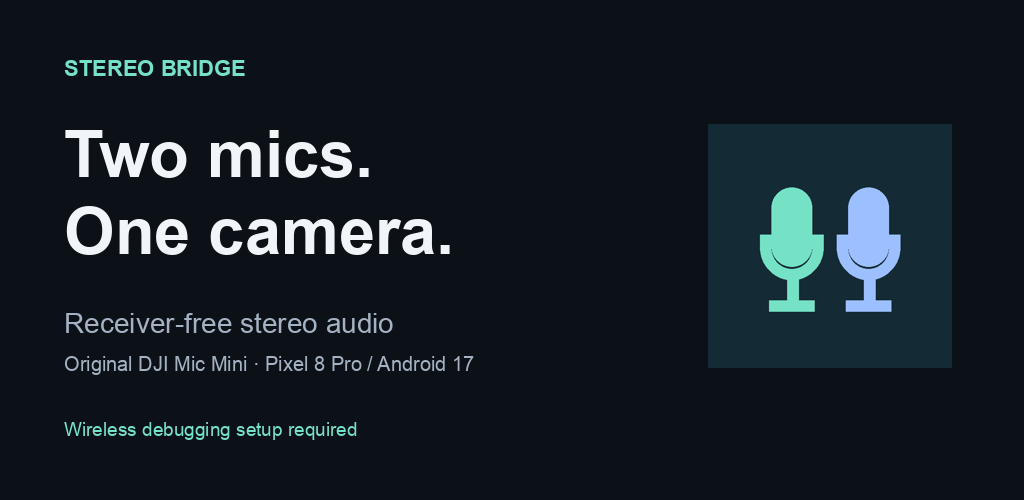
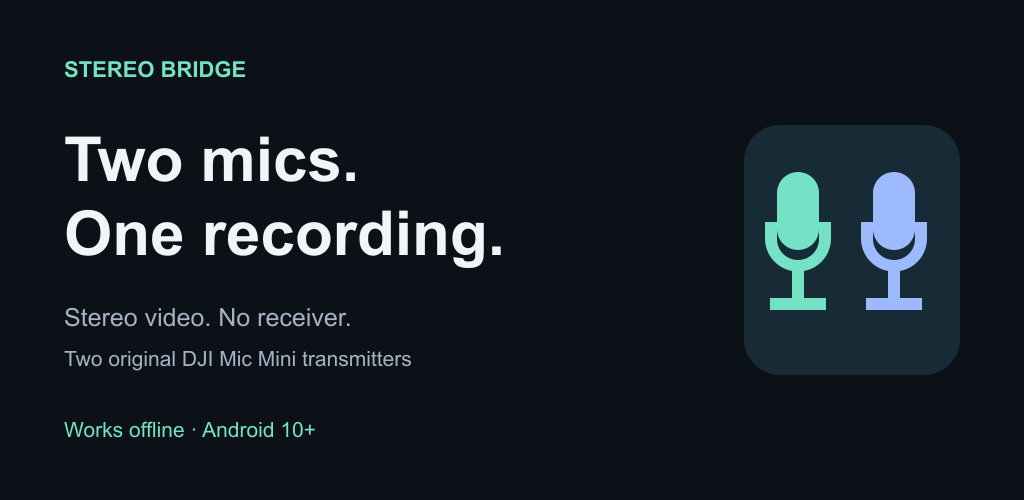
Correct native camera preview and finalize reviewed code 7 candidate

diff --git a/docs/site/privacy.html b/docs/site/privacy.html
@@ -1,1 +1,1 @@
-<!doctype html><html lang="en"><head><meta charset="utf-8"><meta name="viewport" content="width=device-width, initial-scale=1"><link rel="stylesheet" href="style.css"><title>Stereo Bridge privacy</title></head><body><main><article><h1>Privacy — offline recorder</h1><p>This policy describes Stereo Bridge 0.2.0-offline-rc3 (version code 6). For the previous stock-camera bridge, see the <a href="privacy-0.1.html">version 0.1 privacy policy</a>.</p><p>Stereo Bridge records camera video and audio from the two selected original DJI Mic Mini Bluetooth transmitters only after you tap Record. Capture continues when the screen sleeps or another app is open. Tap Stop in the app or recording notification to finish; cancel startup to cancel. A capture connection failure stops capture. Recording does not start automatically after reboot. If notifications are disabled, return to the app to Stop; enable them in Notification settings for a visible Stop action.</p><p>Audio is decoded and mixed on your phone. Videos are written to an app-owned pending item in Movies / Stereo Bridge and published when finalized. A finalized take whose publication fails is kept for a save retry. Completed videos remain if you uninstall the app. Unfinished pending captures and private recovery metadata may be removed during recovery; clearing app storage or uninstalling deletes private metadata. Delete completed videos using your gallery or file manager.</p><p>The app has no Internet permission, analytics, advertising, cloud upload or account requirement. It does not use wireless debugging, a local ADB identity, root or Shizuku.</p><p>The app saves selected microphone addresses and names, gain/mute/channel settings, the URI of the last saved video and pending-video recovery metadata. Application backup is disabled. Clear application storage or uninstall to delete these settings. Bluetooth pairings are managed separately by Android Settings.</p><p>Camera permission enables video. Nearby devices permission on Android 12 and later permits connections to paired Bluetooth transmitters; Android 10 and 11 use ordinary Bluetooth access. The app does not request phone Microphone, location or broad storage permission. The foreground service uses camera and connected-device access for active camera capture and Bluetooth RFCOMM streams. Notifications are optional and provide recording status and Stop. A wake lock keeps an active capture running when the screen sleeps.</p><p>Publisher: Artomatica. Contact: andrii@shylenko.com. Effective date: 14 October 2026.</p><p><a href="index.html">Stereo Bridge</a></p></article></main></body></html>
+<!doctype html><html lang="en"><head><meta charset="utf-8"><meta name="viewport" content="width=device-width, initial-scale=1"><link rel="stylesheet" href="style.css"><title>Stereo Bridge privacy</title></head><body><main><article><h1>Privacy — offline recorder</h1><p>This policy describes Stereo Bridge 0.2.0-offline-rc4 (version code 7). For the previous stock-camera bridge, see the <a href="privacy-0.1.html">version 0.1 privacy policy</a>.</p><p>Stereo Bridge records camera video and audio from the two selected original DJI Mic Mini Bluetooth transmitters only after you tap Record. Capture continues when the screen sleeps or another app is open. Tap Stop in the app or recording notification to finish; cancel startup to cancel. A capture connection failure stops capture. Recording does not start automatically after reboot. If notifications are disabled, return to the app to Stop; enable them in Notification settings for a visible Stop action.</p><p>Audio is decoded and mixed on your phone. Videos are written to an app-owned pending item in Movies / Stereo Bridge and published when finalized. A finalized take whose publication fails is kept for a save retry. Completed videos remain if you uninstall the app. Unfinished pending captures and private recovery metadata may be removed during recovery; clearing app storage or uninstalling deletes private metadata. Delete completed videos using your gallery or file manager.</p><p>The app has no Internet permission, analytics, advertising, cloud upload or account requirement. It does not use wireless debugging, a local ADB identity, root or Shizuku.</p><p>The app saves selected microphone addresses and names, gain/mute/channel settings, the URI of the last saved video and pending-video recovery metadata. Application backup is disabled. Clear application storage or uninstall to delete these settings. Bluetooth pairings are managed separately by Android Settings.</p><p>Camera permission enables video. Nearby devices permission on Android 12 and later permits connections to paired Bluetooth transmitters; Android 10 and 11 use ordinary Bluetooth access. The app does not request phone Microphone, location or broad storage permission. The foreground service uses camera and connected-device access for active camera capture and Bluetooth RFCOMM streams. Notifications are optional and provide recording status and Stop. A wake lock keeps an active capture running when the screen sleeps.</p><p>Publisher: Artomatica. Contact: andrii@shylenko.com. Effective date: 14 October 2026.</p><p><a href="index.html">Stereo Bridge</a></p></article></main></body></html>

diff --git a/app/src/main/java/app/stereobridge/MainActivity.java b/app/src/main/java/app/stereobridge/MainActivity.java
@@ -18,6 +18,7 @@ public final class MainActivity extends Activity {
   private TextureView preview;
   private int transformedWidth=-1,transformedHeight=-1,bufferWidth=-1,bufferHeight=-1,bufferRotation=-1;
   private boolean transformedFront;
+  private int transformedDisplay = -1;
   private SurfaceTexture texture;
   private OfflineRecorderService.LocalBinder recorder, previewOwner;
   private boolean bound, resumed, pendingRecord, expanded, permissionRequestInFlight;
@@ -187,21 +188,12 @@ public final class MainActivity extends Activity {
     if (recorder != null) recorder.setDisplayRotation(displayDegrees);
     int[] info = recorder == null ? new int[] {1920, 1080, 90} : recorder.previewInfo();
     boolean front = info.length > 3 && info[3] == 1;
-    if (info.length > 4) info[2] = CameraGeometry.rotation(info[4], displayDegrees, front);
-    if(width==transformedWidth&&height==transformedHeight&&info[0]==bufferWidth&&info[1]==bufferHeight&&info[2]==bufferRotation&&front==transformedFront)return;
-    transformedFront=front;
-    transformedWidth=width;transformedHeight=height;bufferWidth=info[0];bufferHeight=info[1];bufferRotation=info[2];
-    float sw = info[0], sh = info[1];
-    double angle = Math.toRadians(info[2]);
-    float rotatedWidth = info[2] % 180 == 0 ? sw : sh, rotatedHeight = info[2] % 180 == 0 ? sh : sw;
-    float scale = Math.max(width / rotatedWidth, height / rotatedHeight);
-    float[] source = {0, 0, width, 0, width, height, 0, height}, target = new float[8];
-    float[] corners = {-sw / 2, -sh / 2, sw / 2, -sh / 2, sw / 2, sh / 2, -sw / 2, sh / 2};
-    for (int n = 0; n < 4; n++) {
-      float x = corners[n * 2], y = corners[n * 2 + 1];
-      target[n * 2] = width / 2f + (front ? -1 : 1) * scale * (float) (x * Math.cos(angle) - y * Math.sin(angle));
-      target[n * 2 + 1] = height / 2f + scale * (float) (x * Math.sin(angle) + y * Math.cos(angle));
-    }
+    int sensor = info.length > 4 ? info[4] : 90;
+    if(width==transformedWidth&&height==transformedHeight&&info[0]==bufferWidth&&info[1]==bufferHeight&&sensor==bufferRotation&&displayDegrees==transformedDisplay&&front==transformedFront)return;
+    transformedFront=front;transformedDisplay=displayDegrees;
+    transformedWidth=width;transformedHeight=height;bufferWidth=info[0];bufferHeight=info[1];bufferRotation=sensor;
+    float[] source = {0,0,width,0,width,height,0,height};
+    float[] target = CameraGeometry.previewCorners(width,height,info[0],info[1],sensor,displayDegrees);
     Matrix matrix = new Matrix();
     matrix.setPolyToPoly(source, 0, target, 0, 4);
     preview.setTransform(matrix);

diff --git a/app/src/main/java/app/stereobridge/CameraGeometry.java b/app/src/main/java/app/stereobridge/CameraGeometry.java
@@ -4,4 +4,20 @@ public final class CameraGeometry {
  private CameraGeometry() {}
  public static int rotation(int sensor, int display, boolean front) { return Math.floorMod(sensor + (front ? display : -display),360); }
  public static boolean within1080(int width,int height) { return width>0 && height>0 && Math.max(width,height)<=1920 && Math.min(width,height)<=1080; }
+ public static float[] previewCorners(int viewWidth,int viewHeight,int bufferWidth,int bufferHeight,int sensor,int display) {
+   // TextureView's producer transform already applies sensor orientation and front mirroring.
+   float sw = sensor % 180 == 0 ? bufferWidth : bufferHeight;
+   float sh = sensor % 180 == 0 ? bufferHeight : bufferWidth;
+   float rw = display % 180 == 0 ? sw : sh, rh = display % 180 == 0 ? sh : sw;
+   float scale = Math.max(viewWidth / rw,viewHeight / rh);
+   double angle = Math.toRadians(-display);
+   float[] corners = {-sw/2,-sh/2,sw/2,-sh/2,sw/2,sh/2,-sw/2,sh/2};
+   float[] target = new float[8];
+   for (int n=0;n<4;n++) {
+     float x=corners[n*2],y=corners[n*2+1];
+     target[n*2]=viewWidth/2f+scale*(float)(x*Math.cos(angle)-y*Math.sin(angle));
+     target[n*2+1]=viewHeight/2f+scale*(float)(x*Math.sin(angle)+y*Math.cos(angle));
+   }
+   return target;
+ }
 }

diff --git a/app/src/test/java/app/stereobridge/CameraPreviewGeometryTest.java b/app/src/test/java/app/stereobridge/CameraPreviewGeometryTest.java
@@ -1,0 +1,17 @@
+package app.stereobridge;
+import org.junit.Test;
+import static org.junit.Assert.*;
+public class CameraPreviewGeometryTest {
+ @Test public void textureAlreadyHasSensorOrientationInPortrait() {
+  assertArrayEquals(new float[]{0,0,1080,0,1080,1920,0,1920},CameraGeometry.previewCorners(1080,1920,1920,1080,90,0),.01f);
+ }
+ @Test public void landscapeCompensatesOnlyDisplayRotation() {
+  assertArrayEquals(new float[]{0,1080,0,0,1920,0,1920,1080},CameraGeometry.previewCorners(1920,1080,1920,1080,90,90),.01f);
+ }
+ @Test public void squareViewCropsWithoutChangingOrientedAspectRatio() {
+  float[] p=CameraGeometry.previewCorners(1000,1000,1920,1080,90,0);
+  assertEquals(1000,p[2]-p[0],.01f);
+  assertEquals(1000*1920f/1080,p[5]-p[3],.01f);
+  assertEquals(500,(p[1]+p[5])/2,.01f);
+ }
+}

diff --git a/docs/offline-verification.md b/docs/offline-verification.md
@@ -6,7 +6,7 @@
 
 First use requires pairing both original DJI Mic Mini transmitters in Android Settings, then granting Camera and Nearby devices on Android 12+. Android 10/11 use the normal legacy Bluetooth permission. Notifications are optional. No Wi-Fi, receiver, root, Shizuku or debugging setup is required to record. Settings survive reboot; recording never starts automatically.
 
-## Current candidate: 0.2.0-offline-rc3 (code 6)
+## Current candidate: 0.2.0-offline-rc4 (code 7)
 
 - Android 10/API 29 minimum, target API 36. Native libraries: armeabi-v7a, arm64-v8a and x86_64.
 - Camera and paired-device Bluetooth access; optional notifications. No RECORD_AUDIO, Internet, location, device discovery or broad storage permission. Foreground service uses camera and connectedDevice types for Camera2 plus Bluetooth RFCOMM.
@@ -15,7 +15,7 @@ First use requires pairing both original DJI Mic Mini transmitters in Android Se
 - Permission-denial recovery, optional-notification capture, low-storage reserve, disconnect errors and repeated-session cleanup are covered by focused checks.
 - Independent spec and quality reviews found issues in descriptor lifetime, camera fallback, permission prompts and UI recovery; these were addressed. Final review and candidate-specific hardware checks are recorded separately from earlier releases.
 
-## Local package checks (code 5; repeated build for code 6)
+## Local package checks (code 6)
 
 106 unit tests passed with zero failures/errors. Release lint reported zero errors and nine warnings. Debug APK, signed release APK and signed AAB built successfully. APK signature, 16 KiB ZIP alignment and native LOAD alignment passed for all three ABIs. Bundled privacy text exactly matches PRIVACY.md. Final focused independent source review found no critical or important issues.
 
@@ -41,16 +41,24 @@ Code 5 candidate:
 
 Raw owner video/audio and diagnostic logs remain private and are not committed to the public repository.
 
+## Code 6 physical camera check
+
+Two consecutive Pixel debug takes (11.27 and 16.37 seconds) passed full decode, distinct 440/880Hz channel tones, monotonic timestamps and no silent 100ms windows. After charging/powering both transmitters, a real code 6 release take saved and passed full decode: 42.34 seconds, 1080p H.264 and two-channel AAC. An earlier attempt stopped before capture with right-microphone disconnected. The signed release remains installed, the temporary debug app was removed and original Wi-Fi enabled state was restored.
+
 ## Android 10 encoder regression and code 6
 
-The fresh API29 check on code 5 failed during AVC configuration. Android10 ACodec requires an AVC level whenever an explicit profile is set; code 5 supplied only profile. Code 6 supplies both advertised profile and level. Fresh hosted validation is required before this fix is called verified.
+The fresh API29 check on code 5 failed during AVC configuration. Android10 ACodec requires an AVC level whenever an explicit profile is set; code 5 supplied only profile. Code 6 supplies both advertised profile and level. [Fresh API29 hosted validation passed](https://github.com/w1ne/stereo-bridge/actions/runs/38598915925) on source `66498ab`: build/unit/lint, three camera takes including repeat/background/sleep/reboot, and stereo tone/timestamp/silence verification. The profile/level correction is verified on that emulator.
 
 ## Hosted emulator coverage
 
 API 31 x86_64 validation passed on earlier source `2fafcd6`: [Actions run 38435020995](https://github.com/w1ne/stereo-bridge/actions/runs/38435020995). Three synthetic takes covered repeat/background/sleep/reboot with Wi-Fi disabled and passed channel/timestamp/silence checks.
 
-The current workflow targets API 29 to exercise the new minimum version; a fresh candidate run is required after publication. Synthetic testing cannot prove Bluetooth microphone intelligibility, physical clock drift or device-wide compatibility. The local Mac emulator could not boot within available disk space; temporary packages were removed.
+The current API29 workflow passed on source `66498ab`; see the code 6 result above. Synthetic testing cannot prove Bluetooth microphone intelligibility, physical clock drift or device-wide compatibility. The local Mac emulator could not boot within available disk space; temporary packages were removed.
 
 ## Distribution gate
 
-Build, unit-test, lint, signature and alignment results must be attached to the exact candidate. Update the public privacy page, store assets and camera/connectedDevice foreground-service declarations before submitting code 6. Code 5 was uploaded to a production draft but will be replaced by code 6 before submission. Google Play approval is not guaranteed. The prior 0.1 release submission is separate; no new submission or approval is asserted here.
+Build, unit-test, lint, signature and alignment results must be attached to the exact candidate. Update the public privacy page, store assets and camera/connectedDevice foreground-service declarations before submitting code 7. Codes 5 and 6 were uploaded to a production draft; code 7 replaces them before submission. Google Play approval is not guaranteed. The prior 0.1 release submission is separate; no new submission or approval is asserted here.
+
+## Final preview correction (code 7)
+
+Final source review confirmed TextureView already applies sensor orientation and default front mirroring. The app preview now compensates display rotation only and uses sensor-oriented dimensions for uniform crop. Three pure geometry regression tests were added. Fresh build and device checks are required; this changes the preview, not encoded capture orientation.

diff --git a/docs/store-offline-update.md b/docs/store-offline-update.md
@@ -1,15 +1,17 @@
 # Google Play update checklist — DRAFT offline candidate
 
-Version code 6 / 0.2.0-offline-rc3 changes the previously published bridge into an offline recorder. The owner explicitly authorized the Google Play production update and public repository publication on 14 October 2026. The checklist records work required for that authorized submission.
+Version code 7 / 0.2.0-offline-rc4 changes the previously published bridge into an offline recorder. The owner explicitly authorized the Google Play production update and public repository publication on 14 October 2026. The checklist records work required for that authorized submission.
 
-Before submitting code 6:
+Current status: signed code 6 was accepted into a production draft, code 5 excluded, release notes and offline listing draft saved, reviewer access steps saved. API29 CI passed on 66498ab; 106 local unit tests and two Pixel synthetic takes passed. Camera/connectedDevice declaration text is prepared but needs a current real-device demonstration URL. Old screenshots must be replaced. No offline update has been sent for review.
+
+Before submitting code 7:
 
 1. Complete hardware and compatibility checks in [offline verification](offline-verification.md), including permissions denied/granted, background/sleep Stop, direct save/recovery, repeat capture and endurance. Record limits accurately.
 2. Replace screenshots and demonstration video with built-in Record/Stop. Demonstrate two distinct channels, a reboot and offline capture.
 3. Use the candidate [listing draft](../store/listing.md): ordinary Bluetooth pairing, Camera/Nearby devices access, optional notifications and settings recovery. No phone Microphone or debugging setup.
 4. Declare camera and connectedDevice foreground-service use. Describe paired external microphone RFCOMM streams and provide explicit user-started capture/background Stop demonstration. Google determines eligibility and approval.
 5. Review and publish the offline privacy policy with the version update. In-app policy is generated from root PRIVACY.md. Website draft is not yet deployed.
-6. Validate signed code 6 AAB, API29+ behavior, all three native ABIs and 16 KiB page compatibility before upload. Verify resulting manifest and final dependency/data declarations.
+6. Validate signed code 7 AAB, API29+ behavior, all three native ABIs and 16 KiB page compatibility before upload. Verify resulting manifest and final dependency/data declarations.
 7. Upload only after required validation, assets and declarations are complete; inspect Google processing and review status.
 
 Local build success does not establish hardware compatibility, endurance or Google Play approval.

diff --git a/SECURITY.md b/SECURITY.md
@@ -1,5 +1,9 @@
 # Security
 
-Stereo Bridge opens only local authenticated connections. Camera routing uses the phone owner’s authorized Wireless debugging identity. No automatic audio capture, remote ADB connections or downloaded helper code are supported.
+The offline recorder connects only to the two selected, already paired Bluetooth transmitters. Camera and audio capture start after an explicit Record action and end on Stop, cancellation or failure. No recording starts automatically after reboot.
 
-For credential exposure or other security issues, email andrii@shylenko.com. Do not post pairing codes, private keys, raw device logs or owner audio in public issues.
+The app has no Internet permission, downloaded code, root, Shizuku or ADB runtime dependency. It uses scoped app-owned MediaStore captures; recovery checks ownership before updating or deleting pending items. Application backup is disabled.
+
+The historical 0.1 stock-camera bridge used a different, debugging-dependent architecture. Its requirements do not apply to the 0.2 offline recorder.
+
+For security issues, email andrii@shylenko.com. Do not post pairing codes, private keys, raw phone/Bluetooth logs or personal recordings in public issues. See [privacy](PRIVACY.md) and [architecture](docs/architecture.md).

diff --git a/PRIVACY.md b/PRIVACY.md
@@ -1,6 +1,6 @@
 # Privacy — offline recorder candidate
 
-This policy describes Stereo Bridge 0.2.0-offline-rc3 (version code 6). The previously published bridge uses the policy distributed with that release.
+This policy describes Stereo Bridge 0.2.0-offline-rc4 (version code 7). The previously published bridge uses the policy distributed with that release.
 
 Stereo Bridge records camera video and audio from the two selected original DJI Mic Mini Bluetooth transmitters only after you tap Record. Capture continues when the screen sleeps or another app is open. Tap Stop in the app or recording notification to finish; cancel startup to cancel. A capture connection failure stops capture. Recording does not start automatically after reboot. If notifications are disabled, return to the app to Stop; enable them in Notification settings for a visible Stop action.
 

diff --git a/README.md b/README.md
@@ -28,7 +28,7 @@ Android 10/11 use ordinary legacy Bluetooth access. Keep Bluetooth enabled and b
 
 ## Release status
 
-**0.2.0-offline-rc3** is the current offline recorder candidate. Android 10+, ARM32, ARM64 and x86_64; camera/encoder capabilities select a usable mode up to 1080p with bounded startup fallback.
+**0.2.0-offline-rc4** is the current offline recorder candidate. Android 10+, ARM32, ARM64 and x86_64; camera/encoder capabilities select a usable mode up to 1080p with bounded startup fallback.
 
 The Google Play link currently serves the earlier **0.1.0-rc3** stock-camera bridge, which requires wireless debugging. The offline update is being prepared for review; it is not yet live. [Release status and verification](docs/offline-verification.md) distinguish each version and its test results.
 

diff --git a/store/listing.md b/store/listing.md
@@ -1,4 +1,4 @@
-# Google Play listing DRAFT — offline candidate code 6
+# Google Play listing DRAFT — offline candidate code 7
 
 Publisher: Artomatica
 Package: app.stereobridge
